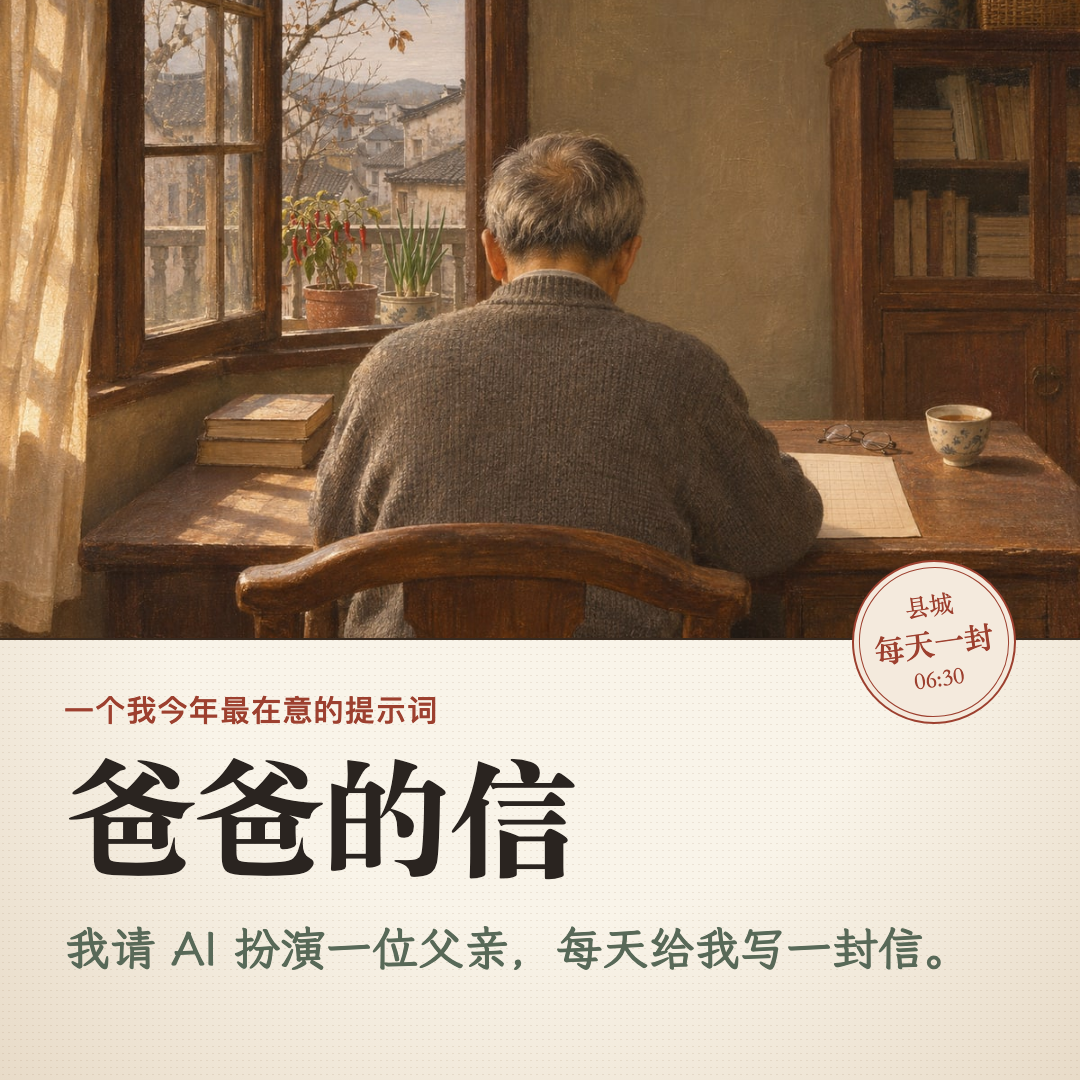
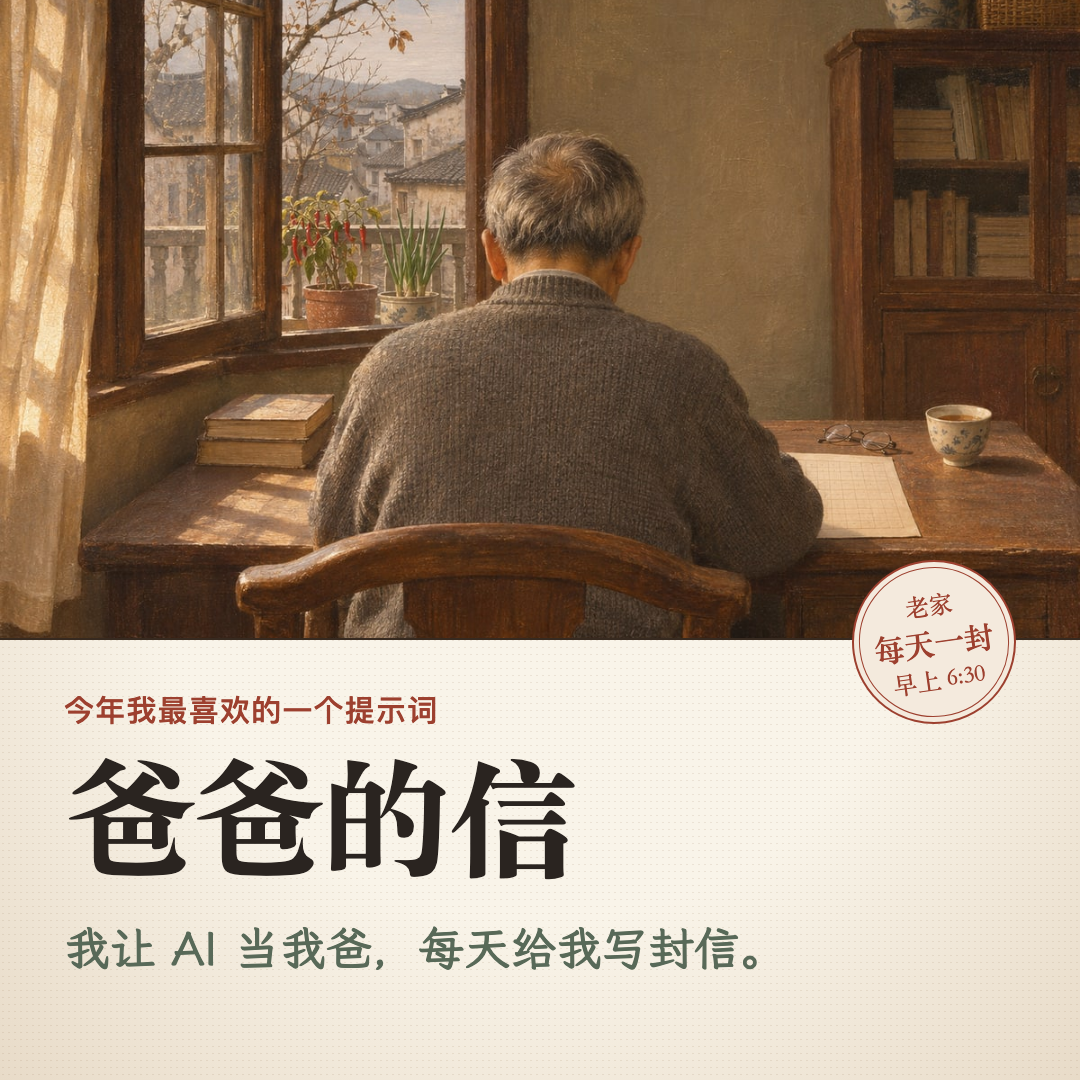
更新朋友圈分享卡片与文案

diff --git a/share/moments/cards.html b/share/moments/cards.html
@@ -22,8 +22,8 @@ h1{font:800 96px/1.15 var(--serif)}
 .stamp b{display:block;font:600 30px/1.3 var(--serif)}
 /* 2 quote */
 .c2{display:flex;flex-direction:column;justify-content:center;padding:0 110px}
-.c2 .mark{font:200px/0.6 Georgia,serif;color:var(--accent);opacity:.8}
-.c2 .q{font:84px/1.45 var(--hand);margin:30px 0 50px}
+.c2 .kicker{margin-bottom:0}.c2 .note b{color:var(--ink);font-weight:700}.c2 .mark{font:200px/0.6 Georgia,serif;color:var(--accent);opacity:.8}
+.c2 .q{font:96px/1.4 var(--hand);margin:30px 0 56px}
 .c2 .q em{font-style:normal;color:var(--deep);border-bottom:6px solid #c8553d55}
 .c2 .note{font:36px/1.7 var(--serif);color:var(--green)}
 /* 3 timeline */
@@ -53,7 +53,7 @@ h1{font:800 96px/1.15 var(--serif)}
 .c5 .tail{margin:40px 10px 0;font:34px/1.6 var(--serif);color:var(--green)}
 /* 6 letters */
 .c6{padding:64px 72px 0}
-.c6 h1{font-size:72px;margin:8px 0 32px}
+.c6 h1{font-size:68px;margin:8px 0 32px}
 .ls{display:flex;gap:36px}
 .l{flex:1;background:#fbf7ef;border:2px solid #372a20;box-shadow:6px 10px 20px #24170722}
 .l .img{height:220px;background-size:cover;background-position:center;border-bottom:2px solid #372a20}
@@ -69,68 +69,68 @@ h1{font:800 96px/1.15 var(--serif)}
 
 <section class="card c1">
   <div class="art"></div>
-  <div class="stamp"><span>县城</span><b>每天一封</b><span>06:30</span></div>
+  <div class="stamp"><span>老家</span><b>每天一封</b><span>早上 6:30</span></div>
   <div class="body">
-    <div class="kicker">一个我今年最在意的提示词</div>
+    <div class="kicker">今年我最喜欢的一个提示词</div>
     <h1>爸爸的信</h1>
-    <p class="sub">我请 AI 扮演一位父亲，每天给我写一封信。</p>
+    <p class="sub">我让 AI 当我爸，每天给我写封信。</p>
   </div>
 </section>
 
 <section class="card c2">
-  <div class="mark">“</div>
-  <p class="q">我怕我的经验，<br><em>变成了偏见</em>。<br>请你纠正我。</p>
-  <p class="note">这是提示词里，儿子对父亲说的第一句话。<br>写了十几年代码，我真正想问的就是这个。</p>
+  <div class="kicker">为什么做这个</div>
+  <p class="q">我的老经验，<br><em>是不是过时了</em>？</p>
+  <p class="note">写了十几年代码，好多判断其实就是习惯。<br>外面早变了，我还在用老一套，<br>也没人会专门来提醒我。<br><b>那就让 AI 来当这个提醒我的人。</b></p>
   <span class="no">02 / 06</span><span class="foot">城北 · 爸爸的信</span>
 </section>
 
 <section class="card c3 pad">
-  <div class="kicker">他是谁</div>
-  <h1>一个被时代淘汰过的人</h1>
+  <div class="kicker">这个爸是我编的</div>
+  <h1>他被时代甩下过一回</h1>
   <ul class="tl">
     <li><b>1958</b>生在江南小县城</li>
     <li><b>1978</b>恢复高考，读无线电</li>
-    <li><b>1982</b>国营厂做黑白电视机</li>
-    <li class="hot"><b>1997</b>厂子倒闭，39 岁下岗</li>
-    <li><b>1998</b>开家电维修铺，一开十四年</li>
-    <li><b>2013</b>职业中专教电子电工</li>
-    <li><b>现在</b>种辣椒、下象棋、周三去图书馆</li>
+    <li><b>1982</b>进国营厂，做黑白电视机</li>
+    <li class="hot"><b>1997</b>厂子倒了，39 岁下岗</li>
+    <li><b>1998</b>开了个修电器的铺子，干了十四年</li>
+    <li><b>2013</b>去职业中专教书</li>
+    <li><b>现在</b>在老家种辣椒、下象棋</li>
   </ul>
-  <p class="tag">他跌倒过，也爬起来了，<br>所以最适合讲：哪些经验该扔，哪些该守。</p>
+  <p class="tag">自己被淘汰过，又爬起来了。<br>哪些老经验该扔、哪些该留，他有体会。</p>
   <span class="no">03 / 06</span><span class="foot">城北 · 爸爸的信</span>
 </section>
 
 <section class="card c4 pad">
-  <div class="kicker">规则</div>
-  <h1>每封信只讲一件事</h1>
-  <div class="kind"><div class="k">校准</div><p>你还信着、但现实已经变了的事<small>先讲清旧路为什么曾经是对的</small></p></div>
-  <div class="kind"><div class="k">补全</div><p>程序员圈子很少讲、却影响一生的规律<small>人、钱、身体、家庭、历史、自然</small></p></div>
-  <div class="kind"><div class="k">确认</div><p>你正在怀疑、其实依然成立的老道理<small>不是所有旧经验都该扔</small></p></div>
+  <div class="kicker">信里聊什么</div>
+  <h1>一封信只聊一件事</h1>
+  <div class="kind"><div class="k">纠正</div><p>我还信着、其实已经过时的想法<small>先说清楚这办法当年为啥是对的</small></p></div>
+  <div class="kind"><div class="k">补课</div><p>写代码的人平时很少聊的事<small>身体、钱、家里人、历史</small></p></div>
+  <div class="kind"><div class="k">撑腰</div><p>我开始怀疑、其实还没错的老道理<small>老经验不是全都要扔</small></p></div>
   <span class="no">04 / 06</span><span class="foot">城北 · 爸爸的信</span>
 </section>
 
 <section class="card c5">
   <div class="sheet">
-    <div class="file">prompts/father.md · 摘录</div>
-    <p class="rule"><em>往事是虚构的，研究是真的。</em>论断都附出处。</p>
-    <p class="rule">不嘲笑过去。他的经验是当时的最优解，要讲的是<em>哪个约束变了</em>。</p>
-    <p class="rule">落到一个今天五分钟就能开始的小动作。</p>
-    <p class="rule">父亲也会错。被反驳了，<em>下一封信先认错</em>。</p>
-    <p class="rule">不说「赋能」「底层逻辑」「闭环」，听见了还要嘲笑两句。</p>
+    <div class="file">我给他定的规矩</div>
+    <p class="rule"><em>他的事可以编，研究和数据必须是真的</em>，出处贴在信后面。</p>
+    <p class="rule">不笑话过去，先讲老办法当年为什么管用。</p>
+    <p class="rule">每封信给一件<em>今天就能做的小事</em>。</p>
+    <p class="rule">他说错了，我回信反驳，<em>下封信他先认错</em>。</p>
+    <p class="rule">不许说「赋能」「底层逻辑」这种词。</p>
   </div>
-  <p class="tail">AI 说的东西，他要找到原始出处才信——<br>就像当年不信图纸，只信万用表。</p>
+  <p class="tail">每天早上 6:30 自动跑：<br>翻之前的信 → 查资料 → 写信 → 发到网站。</p>
   <span class="no">05 / 06</span><span class="foot">城北 · 爸爸的信</span>
 </section>
 
 <section class="card c6">
-  <div class="kicker">已经寄出</div>
-  <h1>头两封信</h1>
+  <div class="kicker">已经写了两封</div>
+  <h1>他都跟我聊了啥</h1>
   <div class="ls">
     <div class="l"><div class="img" style="background-image:url(../../site/static/covers/2026-11-21-einstellung.jpg)"></div>
-      <div class="t"><div class="n">第 001 封 · 校准</div><h2>好的想法，会挡住更好的想法</h2><p>不是不知道有更短的路，是老路太顺手。</p></div></div>
+      <div class="t"><div class="n">第 1 封</div><h2>好的想法，会挡住更好的想法</h2><p>老办法太顺手，更短的路就看不见了。</p></div></div>
     <div class="l"><div class="img" style="background-image:url(../../site/static/covers/2026-11-22-strength.jpg)"></div>
-      <div class="t"><div class="n">第 002 封 · 校准</div><h2>力气是一笔存款</h2><p>老了还拧得开一罐辣椒酱，比瘦更重要。</p></div></div>
+      <div class="t"><div class="n">第 2 封</div><h2>力气是一笔存款</h2><p>锻炼不是为了瘦，是为了老了还拧得开一罐辣椒酱。</p></div></div>
   </div>
-  <div class="end"><img src="qr.svg"><p>整套提示词开源。<br>你也可以给自己，或者给孩子，<br>建一个。<small>diaojz.github.io/dad</small></p></div>
+  <div class="end"><img src="qr.svg"><p>提示词都开源了，<br>拿去改改，自己用、给孩子用都行。<small>diaojz.github.io/dad</small></p></div>
 </section>
 </body></html>

diff --git a/share/moments/文案.md b/share/moments/文案.md
@@ -1,27 +1,22 @@
 # 朋友圈文案 · 爸爸的信
 
-配图顺序：01 封面 → 02 那句话 → 03 他是谁 → 04 只讲一件事 → 05 提示词摘录 → 06 头两封信+二维码
+配图顺序：01 → 06
 
-## 版本 A（推荐，完整版）
+## 版本 A
 
-今年写过很多提示词，这一份对我最有意义。
+今年写了不少提示词，这个是我自己最喜欢的。
 
-写了十几年代码，我越来越怀疑：很多我觉得「就该这么做」的事，可能只是因为我一直这么做。经验用久了会悄悄变成偏见，自己是看不见的。
+起因挺简单。写了十几年代码，越来越发现自己很多判断其实就是习惯，环境早变了，我还在用老一套。身边也没人会专门跑来跟你说：你这个想法过时了。
 
-所以我请 AI 扮演一位父亲。他 1958 年生，39 岁下岗，开了十四年家电维修铺，现在在县城种辣椒、下象棋。每天早上六点半，他给我写一封信，只讲一件事：哪些经验该扔，哪些该守。
+那就让 AI 来当这个人。我给它编了个爸爸，58 年生的，在厂里干过，下过岗，开过十几年修电器的铺子，现在在老家种辣椒。每天早上给我写封信，一封只聊一件事。
 
-他的往事是编的，他引用的研究必须是真的，信末附出处、标证据强度。我回信反驳他，他第二天要先认错。
+就提了一个硬要求：他的故事随便编，引用的研究和数据得是真的，要附出处。
 
-整套提示词开源了，你也可以给自己，或者给孩子，建一个。
+提示词都开源了，想要的拿去改改，给自己用，给孩子用都行。
 diaojz.github.io/dad
 
-## 版本 B（短）
+## 版本 B
 
-今年写的最有意义的一段提示词：让 AI 扮演一位下过岗、开过修理铺、在县城种辣椒的父亲，每天给写了十几年代码的我写一封信，纠正那些已经过期、我自己却没察觉的经验。
+今年写得最用心的一个提示词：让 AI 扮演我爸，每天给我写封信，专挑我那些可能已经过时的老经验说。
 
-往事是编的，研究是真的。
-diaojz.github.io/dad
-
-## 版本 C（一句话）
-
-我请 AI 当我爸，每天给我写一封信，专门纠正我的经验。
+故事是编的，研究得是真的。链接在最后一张图。
